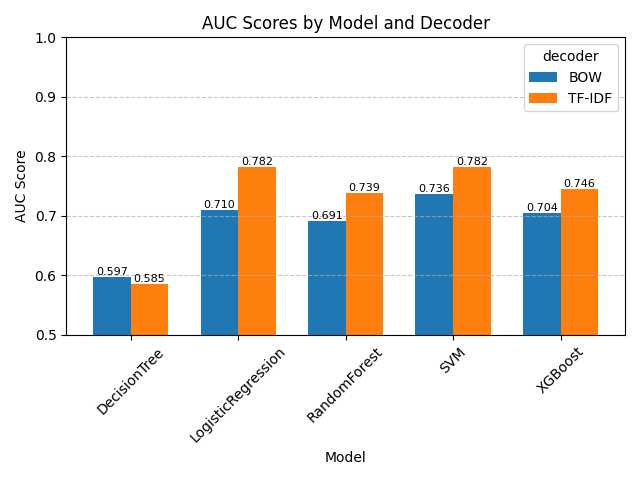
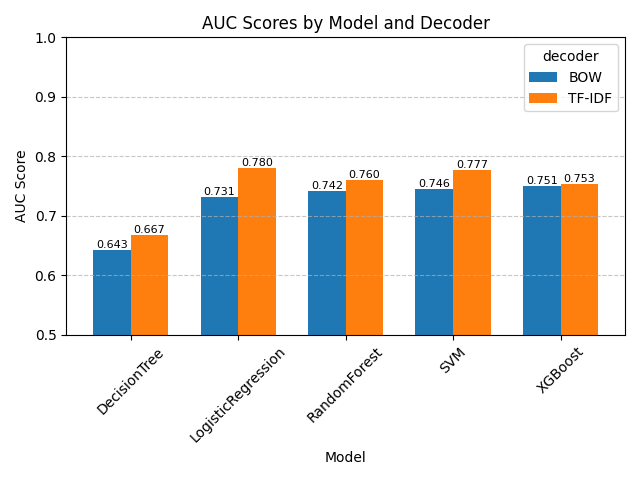
correcciones post-exposición

diff --git a/models.py b/models.py
@@ -13,7 +13,7 @@ from sklearn.model_selection import StratifiedKFold  # type: ignore
 from sklearn.tree import DecisionTreeClassifier  # type: ignore
 from sklearn.linear_model import LogisticRegression  # type: ignore
 from sklearn.ensemble import RandomForestClassifier  # type: ignore
-from sklearn.metrics import confusion_matrix, ConfusionMatrixDisplay, classification_report, roc_auc_score, precision_score, recall_score, f1_score, accuracy_score  # type: ignore
+from sklearn.metrics import confusion_matrix, ConfusionMatrixDisplay, roc_curve, roc_auc_score, precision_score, recall_score, f1_score, accuracy_score  # type: ignore
 import matplotlib.pyplot as plt  # type: ignore
 import numpy as np
 from sklearn.svm import SVC  # type: ignore
@@ -55,6 +55,8 @@ def train_and_evaluate_model(X_tfidf, y, model: Model):
     Returns:
         clf(sklearn classifier):
             The trained classifier from the last fold of cross-validation.
+        auc_mean(float):
+            The mean AUC score across all folds.
     """
 
     skf = StratifiedKFold(n_splits=5, shuffle=True, random_state=80)
@@ -126,11 +128,31 @@ def train_and_evaluate_model(X_tfidf, y, model: Model):
     print(f"False Positives (FP): {int(fp)}")
     print(f"False Negatives (FN): {int(fn)}")
 
+    # Create comulative confusion matrix
     disp = ConfusionMatrixDisplay(
         confusion_matrix=all_cm, display_labels=['no', 'yes'])
     disp.plot(cmap=plt.colormaps["Blues"])
     plt.title("Cumulative confusion matrix (5 folds)")
     plt.savefig('confustion_matrix_train.png')
+    plt.show()
+
+    # Add ROC curve
+    fpr, tpr, _ = roc_curve(y_test, y_proba)
+    auc = roc_auc_score(y_test, y_proba)
+
+    plt.figure(figsize=(8, 6))
+    plt.plot(fpr, tpr, color='blue', lw=2,
+             label=f'ROC curve (AUC = {auc:.2f})')
+    plt.plot([0, 1], [0, 1], color='gray',
+             linestyle='--', lw=2, label='Random')
+    plt.xlim([0.0, 1.0])
+    plt.ylim([0.0, 1.05])
+    plt.xlabel('False Positive Rate')
+    plt.ylabel('True Positive Rate')
+    plt.title('Receiver Operating Characteristic (ROC) Curve')
+    plt.legend(loc="lower right")
+    plt.grid(alpha=0.3)
+    plt.savefig('roc_curve_train.png', dpi=300, bbox_inches='tight')
     plt.show()
 
     return clf, np.mean(auc_scores)
@@ -152,12 +174,32 @@ def evaluate_model(clf, X_test, y_test):
     y_proba = clf.predict_proba(X_test)[:, 1]
     y_pred = clf.predict(X_test)
 
+    # Create confusion matrix
     cm = confusion_matrix(y_test, y_pred)
     disp = ConfusionMatrixDisplay(
         confusion_matrix=cm, display_labels=['no', 'yes'])
     disp.plot(cmap=plt.colormaps["Blues"])
     plt.title("Confusion Matrix")
     plt.savefig('confusion_matrix_test.png')
+    plt.show()
+
+    # Add ROC curve
+    fpr, tpr, _ = roc_curve(y_test, y_proba)
+    auc = roc_auc_score(y_test, y_proba)
+
+    plt.figure(figsize=(8, 6))
+    plt.plot(fpr, tpr, color='blue', lw=2,
+             label=f'ROC curve (AUC = {auc:.2f})')
+    plt.plot([0, 1], [0, 1], color='gray',
+             linestyle='--', lw=2, label='Random')
+    plt.xlim([0.0, 1.0])
+    plt.ylim([0.0, 1.05])
+    plt.xlabel('False Positive Rate')
+    plt.ylabel('True Positive Rate')
+    plt.title('Receiver Operating Characteristic (ROC) Curve')
+    plt.legend(loc="lower right")
+    plt.grid(alpha=0.3)
+    plt.savefig('roc_curve_test.png', dpi=300, bbox_inches='tight')
     plt.show()
 
     print("\n=== Test Results ===")

diff --git a/evaluation.py b/evaluation.py
@@ -7,8 +7,8 @@ Authors:
 Date:
     2025-05-15
 Description:
-    This script evaluates all models from models.py with both TF-IDF and BOW decoders,
-    applying SVD before training. It tracks AUC scores to determine the best combination.
+    This script evaluates all models from models.py with both TF-IDF and BOW decoders.
+    It tracks AUC scores to determine the best combination.
 """
 
 import pandas as pd  # type:ignore
@@ -19,10 +19,10 @@ from time import time
 import matplotlib.pyplot as plt
 
 
-def main():
+def evaluation():
     """
-    Main function that evaluates all models with different feature extraction methods.
-    Tests both TF-IDF and BOW vectorization, applies SVD, and evaluates all models
+    Function that evaluates all models with different feature extraction methods.
+    Tests both TF-IDF and BOW vectorization, and evaluates all models
     defined in the Model enum.
     """
     # Load and preprocess training data
@@ -42,8 +42,8 @@ def main():
         ("BOW", create_bow_features)
     ]
 
-    # SVD parameters
-    n_components = 100
+    # # SVD parameters
+    # n_components = 100
 
     # Evaluate all combinations
     for decoder_name, decoder_func in decoders:
@@ -53,24 +53,24 @@ def main():
 
         # Create features
         print(f"\nCreating {decoder_name} features...")
-        X = decoder_func(df)
+        X, _ = decoder_func(df)
         print(f"Feature matrix shape: {X.shape}")
 
-        # Apply SVD
-        print(f"\nApplying SVD with {n_components} components...")
-        X_svd = randomized_svd_transformer(
-            X=X, n_components=n_components, random_state=42)
-        print(f"Reduced feature matrix shape: {X_svd.shape}")
+        # # Apply SVD
+        # print(f"\nApplying SVD with {n_components} components...")
+        # X_svd = randomized_svd_transformer(
+        #     X=X, n_components=n_components, random_state=42)
+        # print(f"Reduced feature matrix shape: {X_svd.shape}")
 
         # Train and evaluate each model
         for model in Model:
             print(f"\n{'='*30}")
-            print(f"EVALUATING: {decoder_name} + SVD + {model.value}")
+            print(f"EVALUATING: {decoder_name} + {model.value}")
             print(f"{'='*30}")
 
             # Train model and capture AUC scores
             start_time = time()
-            _, auc = train_and_evaluate_model(X_svd, y, model)
+            _, auc = train_and_evaluate_model(X, y, model)
 
             # Store results
             results.append({
@@ -131,4 +131,4 @@ def main():
 
 
 if __name__ == "__main__":
-    main()
+    evaluation()

diff --git a/decoder.py b/decoder.py
@@ -29,19 +29,20 @@ def create_tfidf_features(df: pd.DataFrame):
             - 'is_suicide': Target labels indicating suicide ideation ('yes' or 'no').
     Returns:
         scipy.sparse.csr_matrix: The TF-IDF matrix representing the text data.
+        sklearn.feature_extraction.text.TfidfVectorizer: The fitted vectorizer that can be used to transform new data.
     """
 
     vectorizer = TfidfVectorizer(ngram_range=(
         1, 3), sublinear_tf=True, max_df=0.9, min_df=5, max_features=10000)
     X_tfidf = vectorizer.fit_transform(df['text_clean'])
 
-    # print("TF-IDF matrix:", X_tfidf.shape)
-    # print("No. of features:", len(
-    #     vectorizer.get_feature_names_out()))
-    # print("First 10 features:",
-    #       vectorizer.get_feature_names_out()[:10])
+    print("TF-IDF matrix:", X_tfidf.shape)
+    print("No. of features:", len(
+        vectorizer.get_feature_names_out()))
+    print("First 10 features:",
+          vectorizer.get_feature_names_out()[:10])
 
-    return X_tfidf
+    return X_tfidf, vectorizer
 
 
 def create_bow_features(df: pd.DataFrame):
@@ -55,12 +56,12 @@ def create_bow_features(df: pd.DataFrame):
             - 'is_suicide': Target labels indicating suicide ideation ('yes' or 'no').
     Returns:
         scipy.sparse.csr_matrix: The BoW matrix representing the text data.
+        sklearn.feature_extraction.text.CountVectorizer: The fitted vectorizer that can be used to transform new data.
     """
 
-    vectorizer = CountVectorizer(ngram_range=(1, 1))
+    vectorizer = CountVectorizer(ngram_range=(
+        1, 3), max_df=0.9, min_df=5, max_features=10000)
     X_bow = vectorizer.fit_transform(df['text_clean'])
-
-    y = df['is_suicide'].map({'no': 0, 'yes': 1}).values
 
     # print("BoW matrix:", X_bow.shape)
     # print("No. of features:", len(
@@ -68,7 +69,7 @@ def create_bow_features(df: pd.DataFrame):
     # print("First 10 features:",
     #       vectorizer.get_feature_names_out()[:10])
 
-    return X_bow
+    return X_bow, vectorizer
 
 
 def randomized_svd_transformer(X, n_components=100, n_iter=5, random_state=None):

diff --git a/main.py b/main.py
@@ -21,17 +21,16 @@ def main():
     """
     Main function for suicide ideation detection pipeline.
     Loads training and test data, preprocesses text, extracts features,
-    applies dimensionality reduction using SVD, trains a model,
-    and evaluates performance on test data.
+    trains a model, and evaluates performance on test data.
     """
     
     # Training data
     df_train = pd.read_csv('./data_train(in).csv', encoding='latin-1')
     df_train = prepro(df_train)
 
-    X_train = create_tfidf_features(df_train)
+    X_train, vectorizer = create_tfidf_features(df_train)
 
-    X_train = randomized_svd_transformer(X=X_train, random_state=42)
+    # X_train = randomized_svd_transformer(X=X_train, random_state=42)
 
     clf, _ = train_and_evaluate_model(X_train, df_train['is_suicide'], Model.LR)
 
@@ -39,9 +38,9 @@ def main():
     df_test = pd.read_csv('./data_test_fold1(in).csv', encoding='latin-1')
     df_test = prepro(df_test)
 
-    X_test = create_tfidf_features(df_test)
+    X_test = vectorizer.transform(df_test['text_clean'])
 
-    X_test = randomized_svd_transformer(X=X_test, random_state=42)
+    # X_test = randomized_svd_transformer(X=X_test, random_state=42)
 
     evaluate_model(clf, X_test, df_test['is_suicide'])
 
